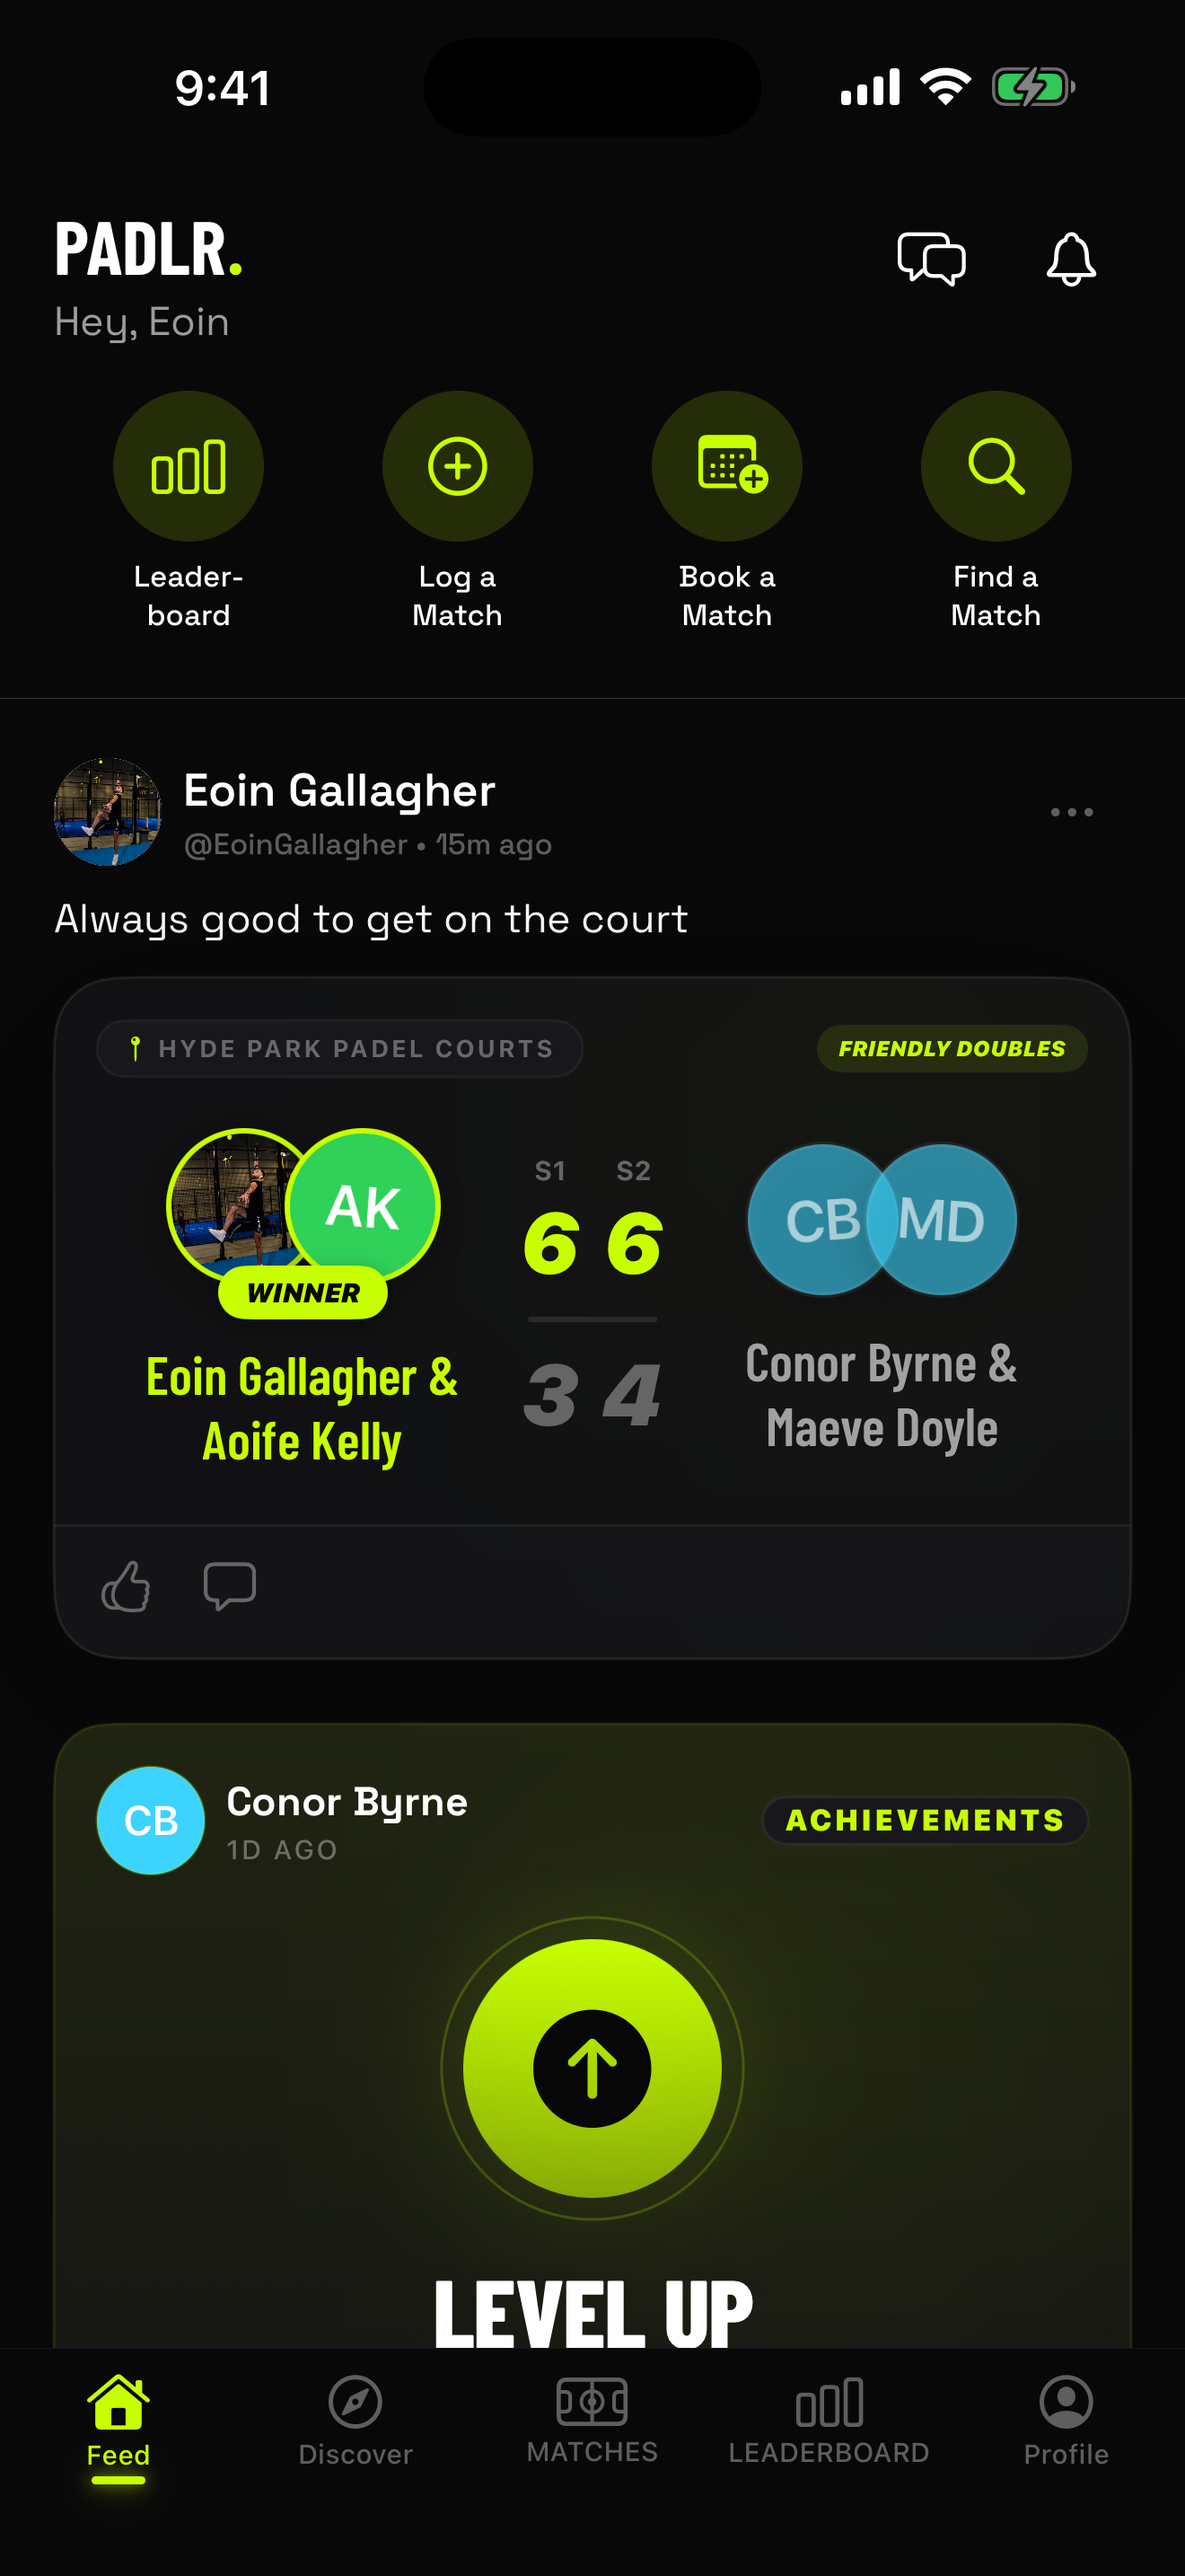
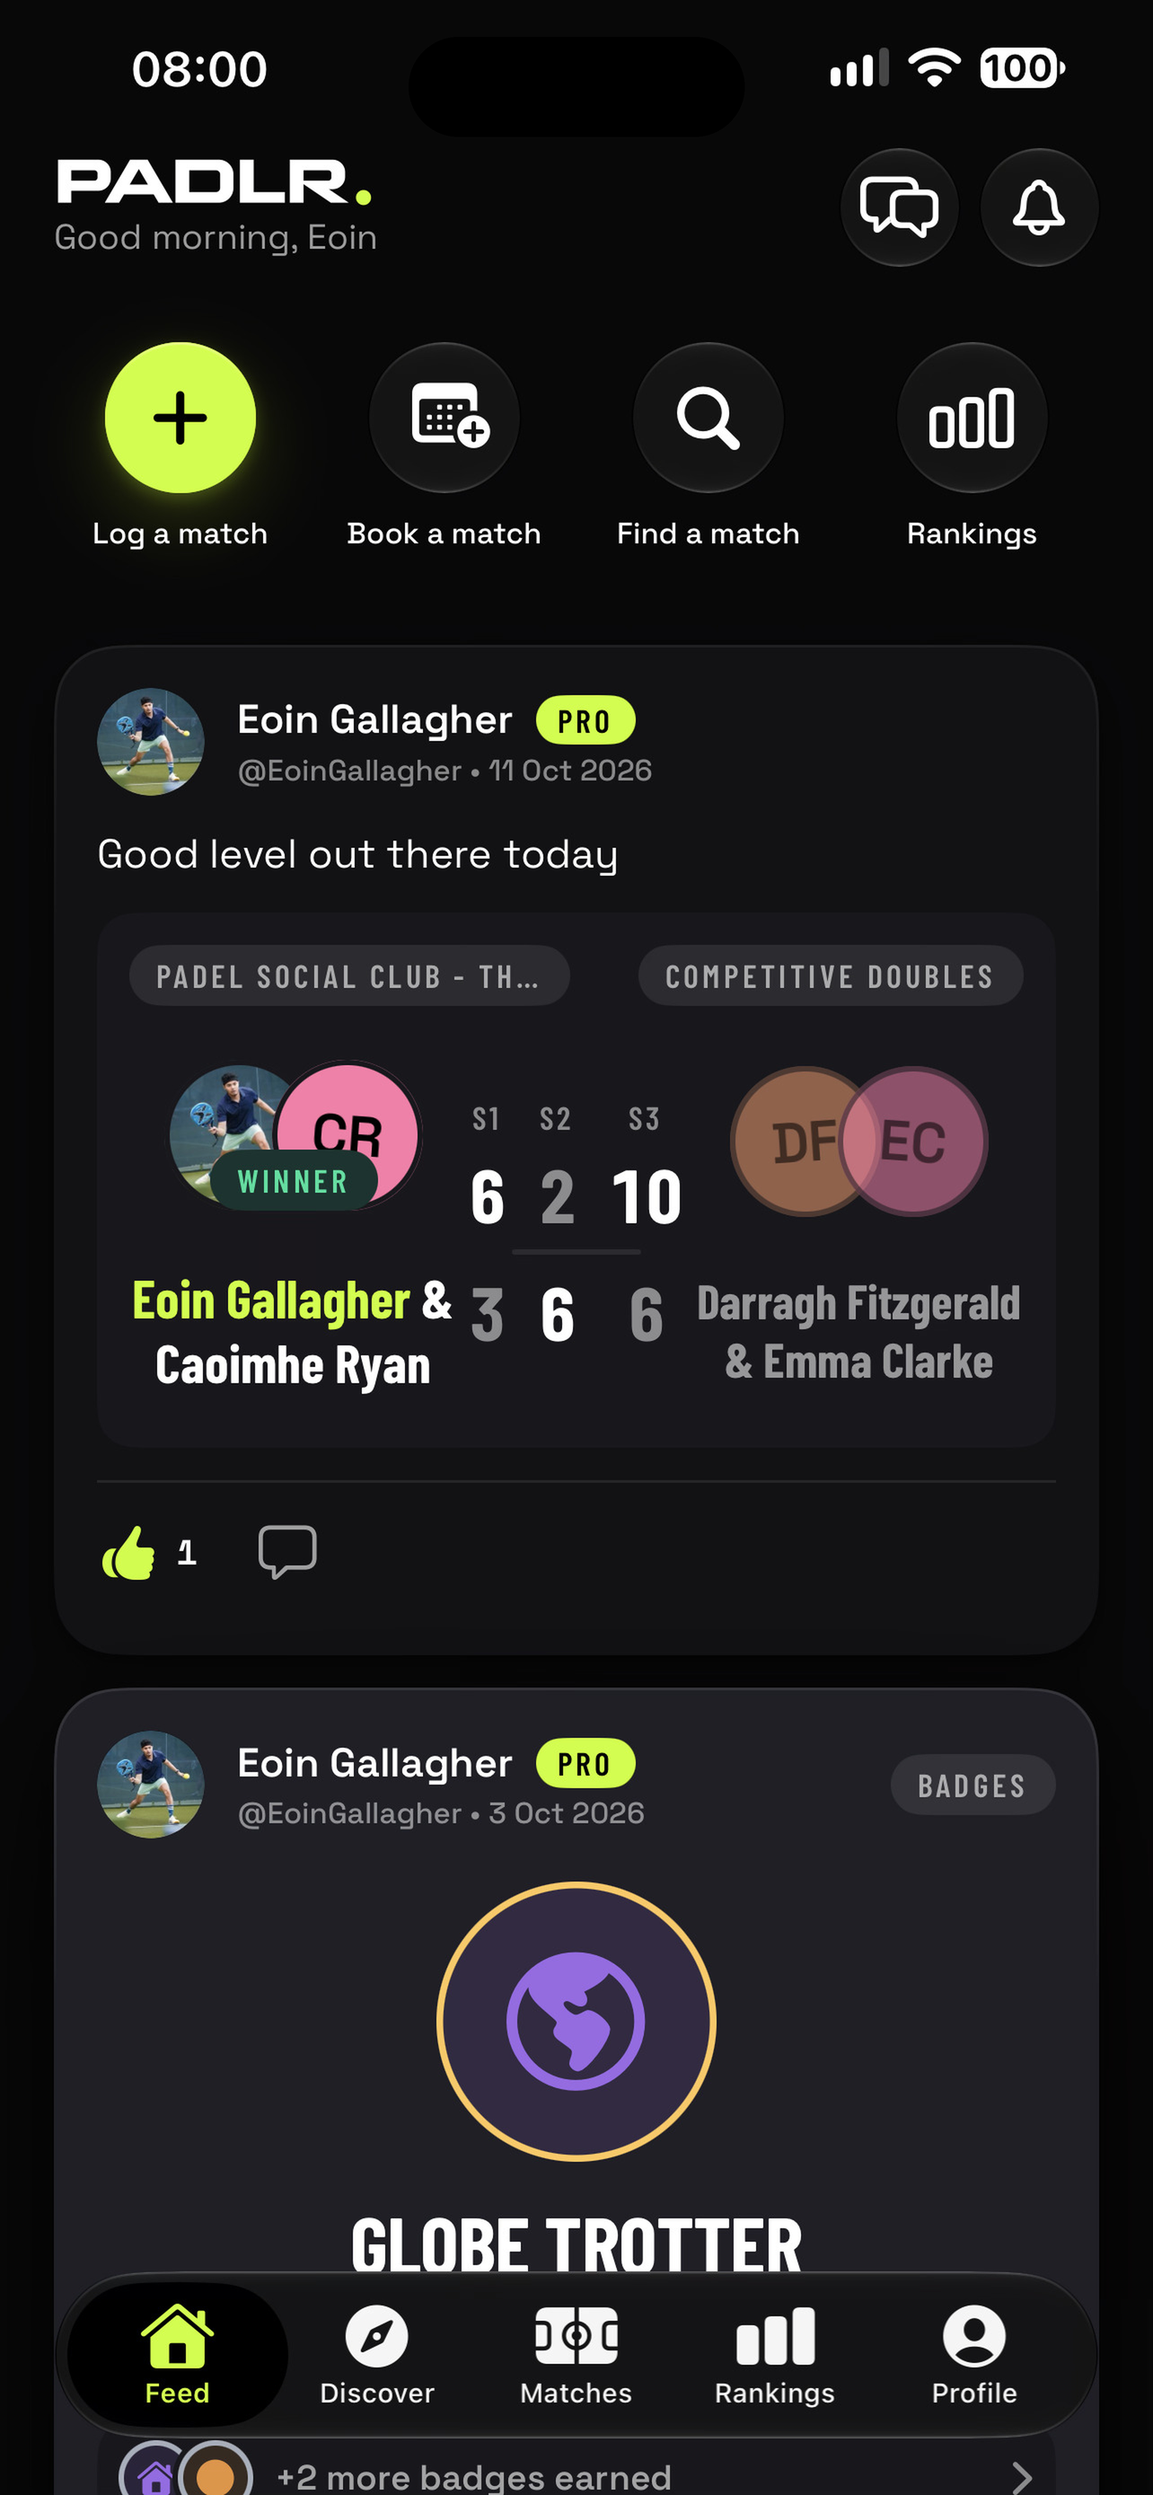
PADLR. screens and copy match the app as built (build 182).
Every app image is a new capture: the feed (home hero and share image), Stats, Discover, Rankings and Matches. The old ones showed the earlier design, a Leaderboard tab and an Achievements screen. Match Details becomes Matches, the unused badges image is gone, and each screen carries a Dynamic Island like the playpadlr.app store frames. The share image keeps its layout with the new feed on the phone.

Copy: PADLR. lets you join open games (it does not book courts), a competitive result is confirmed by an opponent, the Book & Join card is now Open Games and says you book the court with the venue, the rating engine has more than 300 automated tests, and image descriptions say badge, not achievement.

Claude-Session: https://claude.ai/code/session_01QCwwTmw4FF6tn2s9afFAHy

diff --git a/src/lib/constants.ts b/src/lib/constants.ts
@@ -87,7 +87,7 @@ export const PILLARS = [
   {
     title: "Properly engineered",
     description:
-      "A rating only works if players trust it. PADLR.'s rating engine alone has more than 250 automated tests.",
+      "A rating only works if players trust it. PADLR.'s rating engine alone has more than 300 automated tests.",
   },
 ] as const;
 
@@ -100,7 +100,7 @@ export const PRINCIPLES = [
   {
     title: "Fairness",
     description:
-      "Every result goes to the other players in the match to confirm, so nobody can just claim a win. The maths allows for partner strength, and automatic checks look for anyone trying to game the system.",
+      "Every competitive result goes to your opponents to confirm, so nobody can just claim a win. The maths allows for partner strength, and automatic checks look for anyone trying to game the system.",
   },
   {
     title: "Community",
@@ -124,9 +124,9 @@ export const PADLR = {
   name: "PADLR.",
   tagline: "Your Rating. Your Game. Your Community.",
   summary: "The padel app for ratings, matches and finding players.",
-  description: `Track your skill rating, record matches, find players, book games and climb the leaderboards, all in one app across ${COUNTRIES.length} countries.`,
+  description: `Track your skill rating, record matches, find players, join open games and climb the leaderboards, all in one app across ${COUNTRIES.length} countries.`,
   about:
-    "PADLR. is an app for padel players. It gives you a skill rating on a 0–7 scale that updates after every confirmed competitive match and shows you why it moved. You can also log matches, find players near you, book games and climb the leaderboards. The rating runs on OpenSkill, a Bayesian system built for team sports.",
+    "PADLR. is an app for padel players. It gives you a skill rating on a 0–7 scale that updates after every confirmed competitive match and shows you why it moved. You can also log matches, find players near you, join open games and climb the leaderboards. The rating runs on OpenSkill, a Bayesian system built for team sports.",
   launch: "November 2026",
   appStoreUrl: APP_STORE_URL,
   links: {
@@ -155,7 +155,7 @@ export const PADLR = {
     {
       icon: "zap",
       title: "Quick Match Logging",
-      short: "Singles or doubles, set by set, confirmed by another player.",
+      short: "Singles or doubles, set by set, confirmed by an opponent.",
     },
     {
       icon: "messages",
@@ -179,8 +179,8 @@ export const PADLR = {
     },
     {
       icon: "calendar-check",
-      title: "Book & Join Matches",
-      short: "Create open matches or join games nearby.",
+      title: "Open Games",
+      short: "Set up a game or join one nearby. You book the court with the venue.",
     },
     {
       icon: "message-circle",

diff --git a/src/app/products/page.tsx b/src/app/products/page.tsx
@@ -20,38 +20,38 @@ export const metadata = pageMetadata({
 const SCREENS = [
   {
     src: "/padlr-app-preview.png",
-    width: 1320,
-    height: 2868,
+    width: 1284,
+    height: 2778,
     label: "Feed",
-    alt: "PADLR. padel app feed with a doubles match result and a Level Up achievement",
+    alt: "PADLR. padel app feed with a doubles match result and a Globe Trotter badge",
   },
   {
     src: "/padlr/stats.webp",
     width: 720,
-    height: 1565,
+    height: 1558,
     label: "Stats",
-    alt: "PADLR. stats screen with a 3.9 padel rating, confidence ring and rating history chart",
+    alt: "PADLR. stats screen with a 3.6 padel level, its confidence ring and the level chart over the last 30 matches",
   },
   {
     src: "/padlr/discover.webp",
     width: 720,
-    height: 1565,
+    height: 1558,
     label: "Discover",
     alt: "PADLR. discover screen listing open padel games and players nearby",
   },
   {
     src: "/padlr/leaderboards.webp",
     width: 720,
-    height: 1565,
+    height: 1558,
     label: "Rankings",
-    alt: "PADLR. padel leaderboards with a podium of the most active players",
+    alt: "PADLR. padel rankings among friends, with a podium of the most active players",
   },
   {
-    src: "/padlr/match.webp",
+    src: "/padlr/matches.webp",
     width: 720,
-    height: 1565,
-    label: "Match Details",
-    alt: "PADLR. match details for a doubles win, with each player's rating change",
+    height: 1558,
+    label: "Matches",
+    alt: "PADLR. match history with recent form, a win streak and the level change after each match",
   },
 ];
 

diff --git a/src/components/FeaturedProduct.tsx b/src/components/FeaturedProduct.tsx
@@ -75,7 +75,7 @@ export default function FeaturedProduct() {
               <div className="reveal reveal-1 w-[44%] max-w-[250px]">
                 <PhoneFrame
                   src="/padlr/stats.webp"
-                  alt="PADLR. stats screen showing a 3.9 padel rating, a confidence ring and a rating history chart"
+                  alt="PADLR. stats screen showing a 3.6 padel level, its confidence ring and the level chart"
                   sizes="(min-width: 1024px) 250px, 40vw"
                   className="mb-12 opacity-80"
                 />
@@ -83,7 +83,7 @@ export default function FeaturedProduct() {
               <div className="reveal reveal-2 relative z-10 -ml-[10%] w-[50%] max-w-[285px]">
                 <PhoneFrame
                   src="/padlr/leaderboards.webp"
-                  alt="PADLR. padel leaderboards with a podium of the most active players"
+                  alt="PADLR. padel rankings among friends, with a podium of the most active players"
                   sizes="(min-width: 1024px) 285px, 46vw"
                 />
               </div>

diff --git a/src/components/Hero.tsx b/src/components/Hero.tsx
@@ -86,9 +86,9 @@ export default function Hero() {
             />
             <PhoneFrame
               src="/padlr-app-preview.png"
-              alt="The PADLR. padel app feed, showing a confirmed doubles match between four players and a level-up achievement"
-              width={1320}
-              height={2868}
+              alt="The PADLR. padel app feed, showing a confirmed doubles match between four players and a Globe Trotter badge"
+              width={1284}
+              height={2778}
               sizes="(min-width: 1024px) 270px, 62vw"
               priority
               className="absolute left-1/2 top-[20%] w-[64%] -translate-x-1/2"

diff --git a/src/components/PhoneFrame.tsx b/src/components/PhoneFrame.tsx
@@ -16,7 +16,7 @@ export default function PhoneFrame({
   src,
   alt,
   width = 720,
-  height = 1565,
+  height = 1558,
   sizes = "(min-width: 1024px) 300px, 60vw",
   priority = false,
   className = "",
